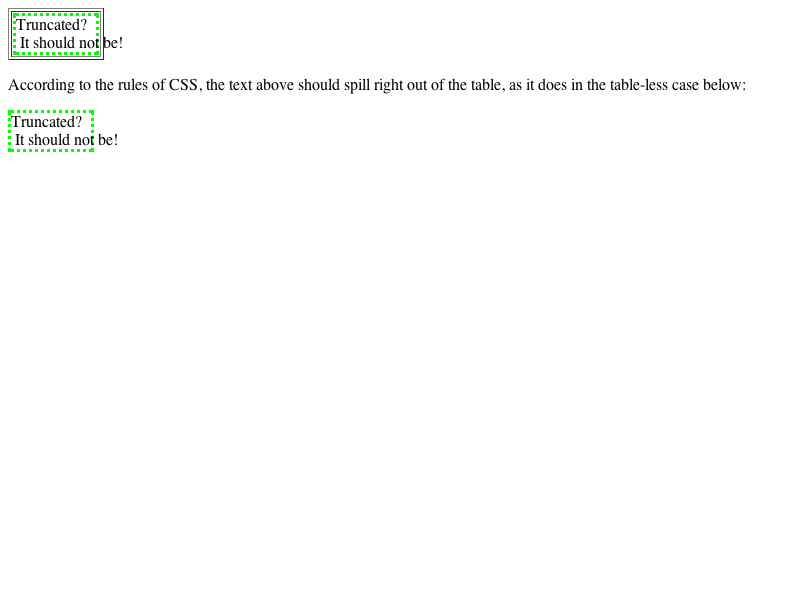
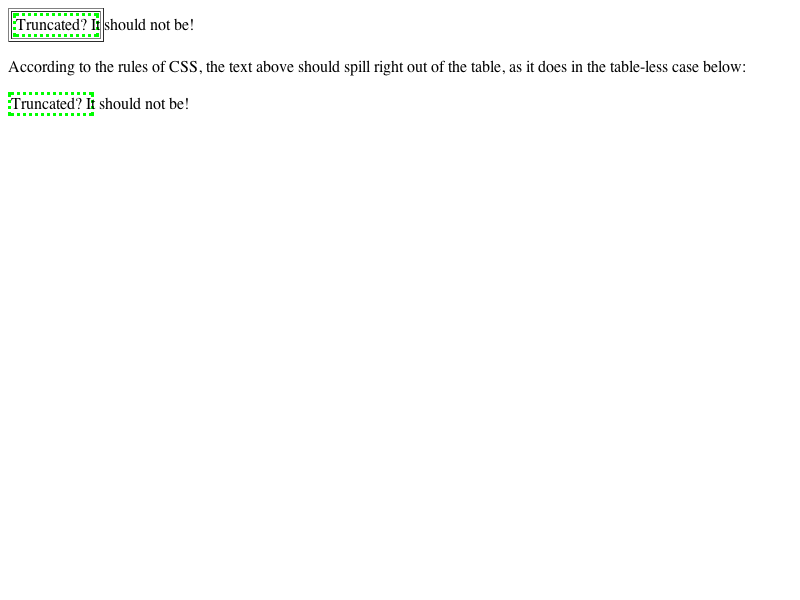
<rdar://problem/7573493> Error with line break inside ?&raquo; pair of characters. https://bugs.webkit.org/show_bug.cgi?id=17475
Reviewed by Darin Adler.

WebCore: 

Test: fast/text/line-break-after-question-mark.html

Instead of unconditionally allowing lines to break after a question mark, which was intended
to mimic Internet Explorer, apply the Unicode line breaking behavior after a question mark,
with one exception in the ASCII range to match IE, namely not allowing a line break between
a question mark and a vertical line.

* rendering/break_lines.cpp:
(WebCore::shouldBreakAfter): Added a next character parameter. Changed to consult a table
for the question mark case in order to keep it fast and not require a text break iterator in
the ASCII case.
(WebCore::nextBreakablePosition): Pass the next character to shouldBreakAfter.

LayoutTests: 

* fast/text/line-break-after-question-mark-expected.txt: Added.
* fast/text/line-break-after-question-mark.html: Added.
* fast/text/script-tests/line-break-after-question-mark.js: Added.
():
* platform/mac/tables/mozilla/bugs/bug6674-expected.checksum: Updated.
* platform/mac/tables/mozilla/bugs/bug6674-expected.png: Updated.
* platform/mac/tables/mozilla/bugs/bug6674-expected.txt: Updated.

git-svn-id: http://svn.webkit.org/repository/webkit/trunk/LayoutTests@53839 268f45cc-cd09-0410-ab3c-d52691b4dbfc

Changed region(s): [[0.0, 0.03, 0.9375, 0.27]]

diff --git a/fast/text/script-tests/line-break-after-question-mark.js b/fast/text/script-tests/line-break-after-question-mark.js
@@ -1,0 +1,21 @@
+description("Tests when line breaking is allowed after a question mark character.");
+
+var div = document.body.appendChild(document.createElement("div"));
+div.style.width = "1px";
+div.style.fontFamily = "ahem";
+div.style.fontSize = "25px";
+
+function allowsBreakBefore(i)
+{
+    div.innerText = "A?" + String.fromCharCode(i);
+    return div.offsetHeight > 25;
+}
+
+var unallowedBreaks = [0x21, 0x22, 0x27, 0x29, 0x2c, 0x2e, 0x2f, 0x3a, 0x3b, 0x3f, 0x5d, 0x7d];
+
+for (var i = 33; i < 128; ++i)
+    shouldBe("allowsBreakBefore(" + i + ")", unallowedBreaks.indexOf(i) >= 0 ? "false" : "true");
+
+document.body.removeChild(div);
+
+var successfullyParsed = true;

diff --git a/fast/text/line-break-after-question-mark.html b/fast/text/line-break-after-question-mark.html
@@ -1,0 +1,13 @@
+<!DOCTYPE HTML PUBLIC "-//IETF//DTD HTML//EN">
+<html>
+<head>
+<link rel="stylesheet" href="../js/resources/js-test-style.css">
+<script src="../js/resources/js-test-pre.js"></script>
+</head>
+<body>
+<p id="description"></p>
+<div id="console"></div>
+<script src="script-tests/line-break-after-question-mark.js"></script>
+<script src="../js/resources/js-test-post.js"></script>
+</body>
+</html>
